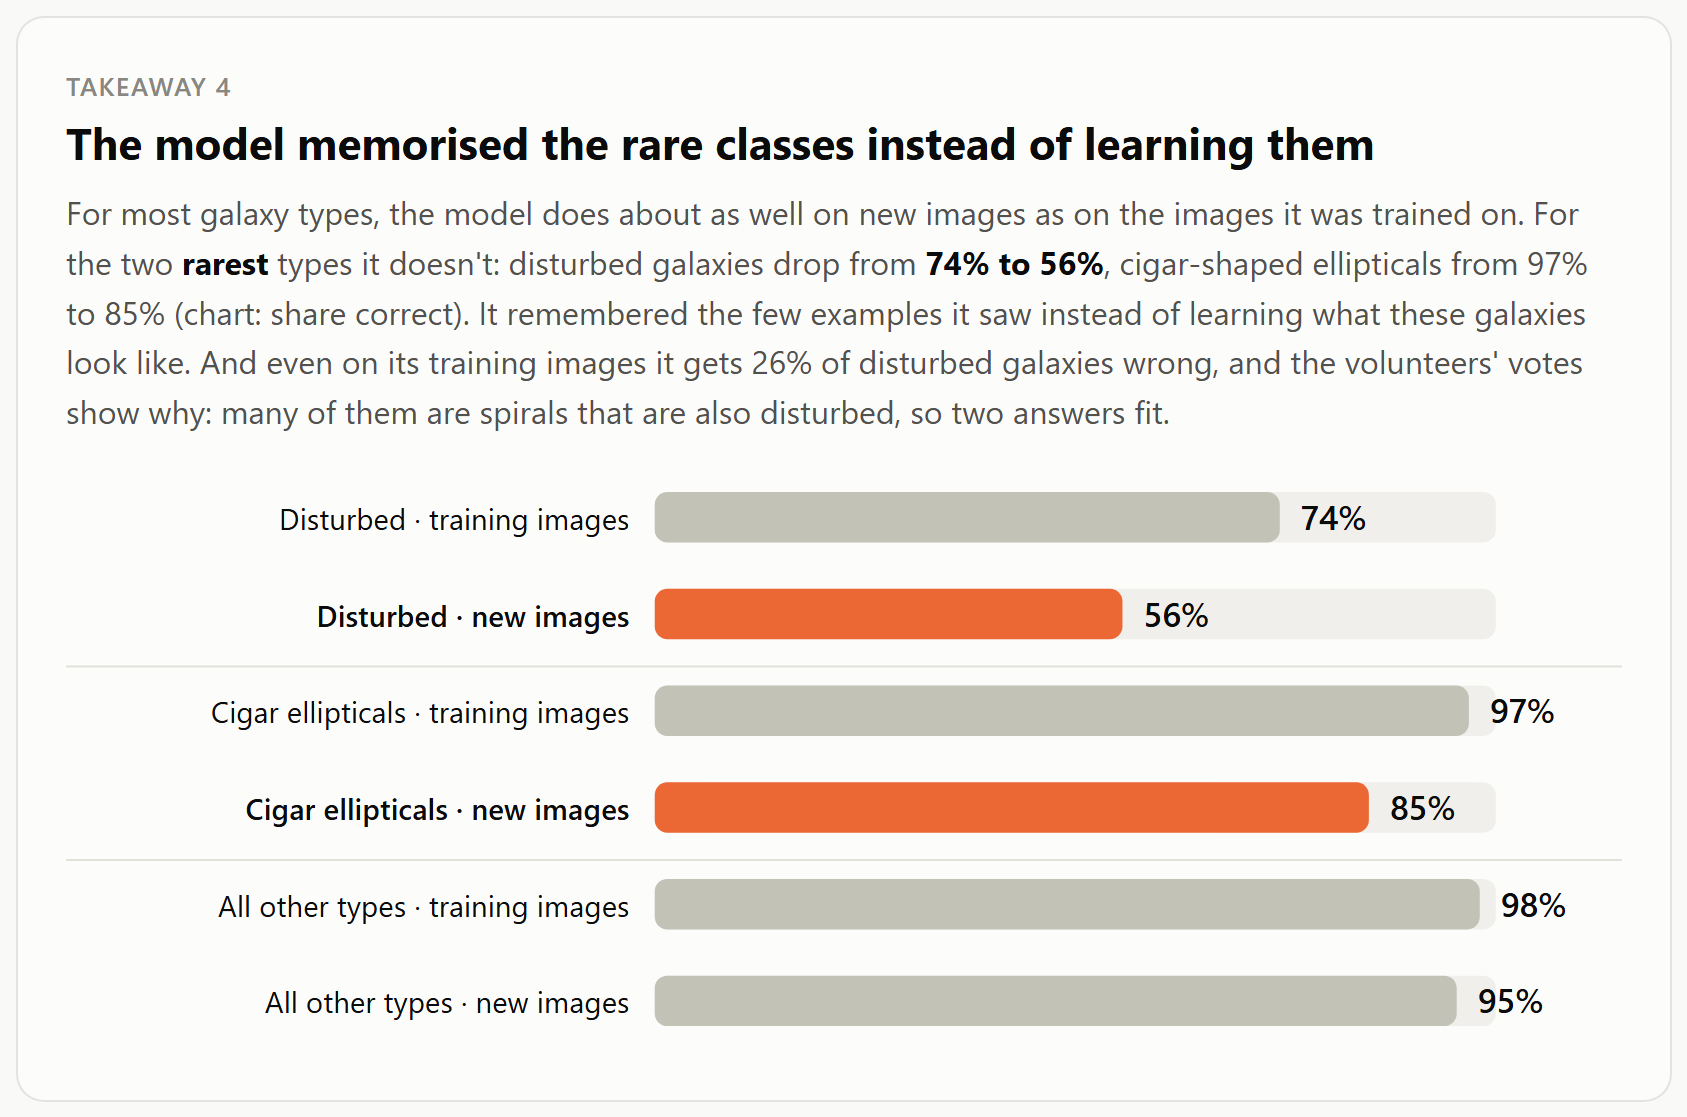
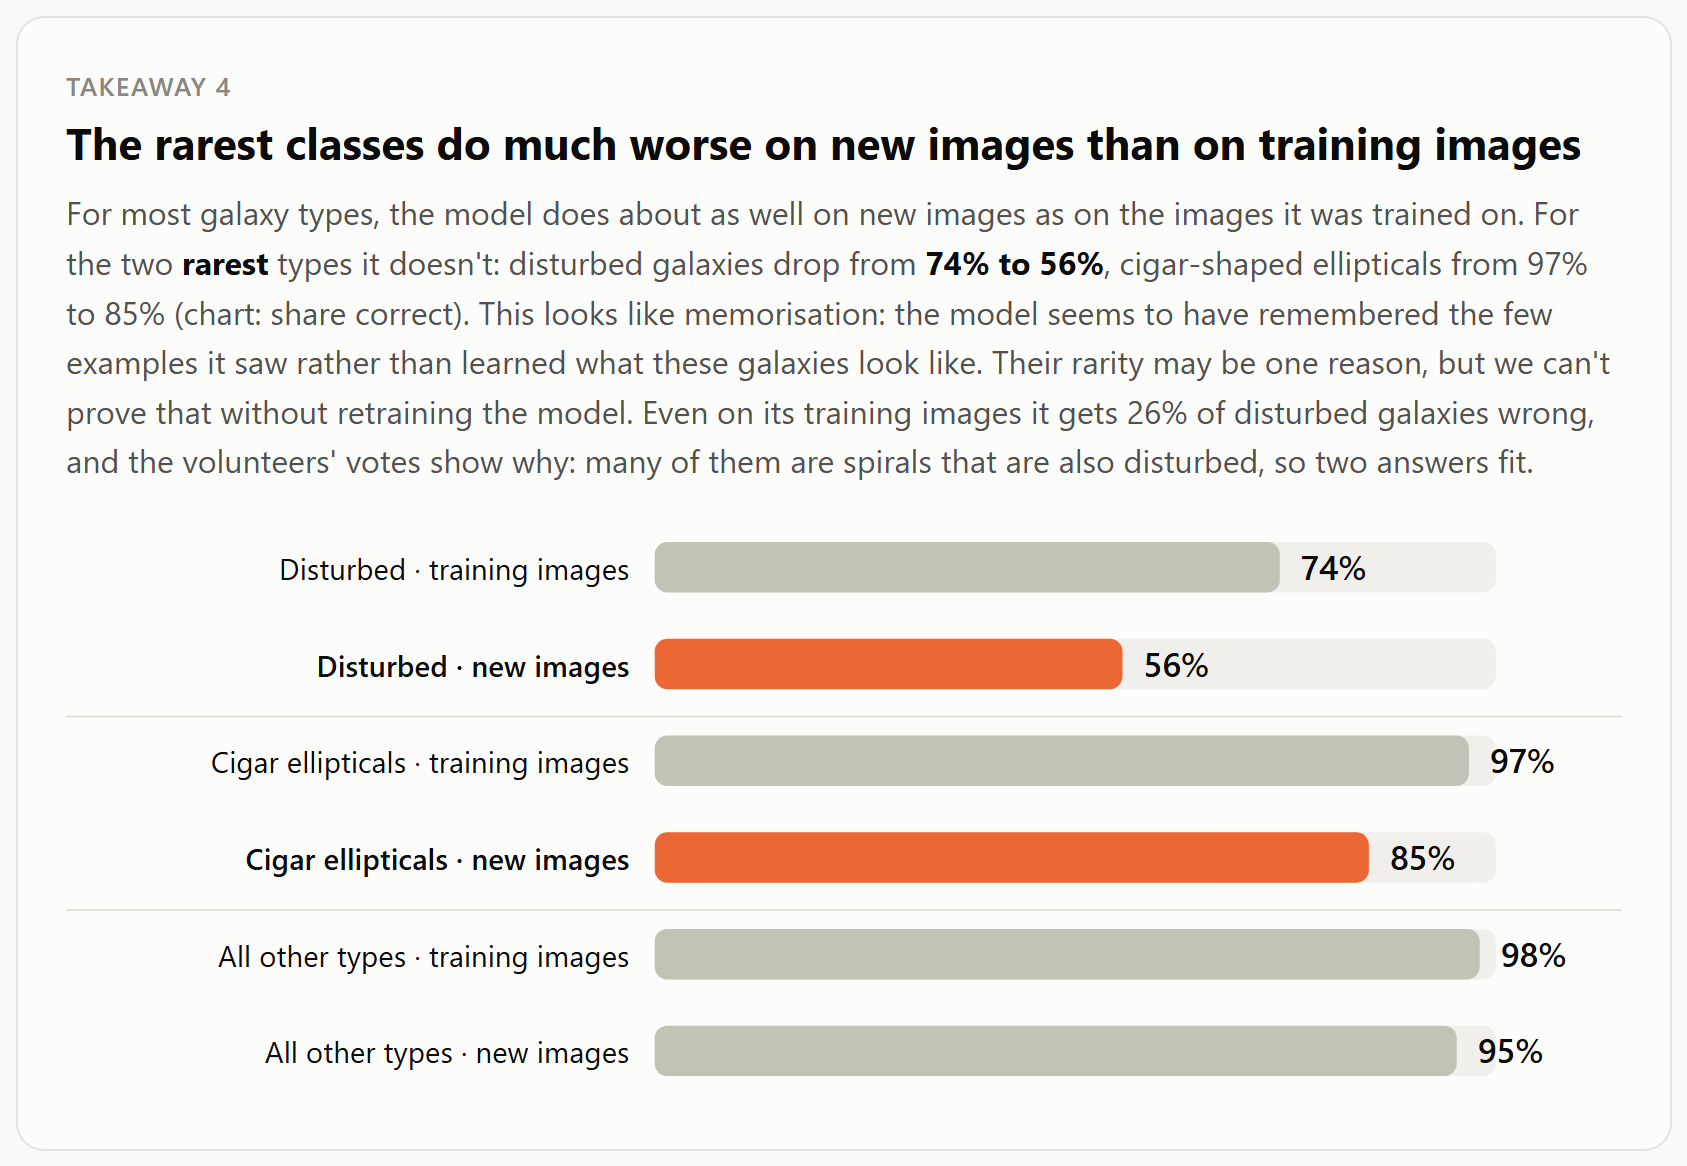
test remaining claims, correct wording

diff --git a/ai_aided/vis/findings.html b/ai_aided/vis/findings.html
@@ -108,7 +108,7 @@ svg text { fill: var(--ink-2); font-size: 14px; }
 
   <section class="card">
     <div class="num">Takeaway 4</div>
-    <h2>The model memorised the rare classes instead of learning them</h2>
+    <h2>The rarest classes do much worse on new images than on training images</h2>
     <p class="say" id="t4-say"></p>
     <div id="t4-chart"></div>
   </section>
@@ -140,7 +140,7 @@ svg text { fill: var(--ink-2); font-size: 14px; }
     <h2>What does <i>not</i> confuse the model</h2>
     <p class="say">Some things looked like they might matter, so we changed them on purpose. The answers barely moved.</p>
     <div class="nope" id="t6"></div>
-    <p class="note">Colour is the important one: in the real images, red disturbed galaxies <i>are</i> called Elliptical far more often than blue ones, so it looked like the model judges by colour. The test shows it doesn't. Red disturbed galaxies are probably just smoother in shape.</p>
+    <p class="note">Colour is the important one: in the real images, red disturbed galaxies <i>are</i> called Elliptical far more often than blue ones, so it looked like the model judges by colour. The test shows it doesn't. The volunteers do call red disturbed galaxies “smooth” more often than blue ones (37% vs 28%), so a smoother shape, not the colour itself, is the likely reason.</p>
   </section>
 
   <p class="foot">Data: Galaxy10 DECals validation images (not used for training). "Tested by editing images": we changed one thing in the images (size, blur, colour, shape, rotation, position or neighbours) and ran the model again on the same galaxies (705 and 1,115 galaxies in two tests). Numbers are calculated live from the model's predictions. For details, open explorer.html.</p>
@@ -235,7 +235,7 @@ $("lede").textContent = `We tested the galaxy classifier on ${VAL.length.toLocal
     { label: "Blurred · spirals & ellipticals", v: ch(others2, "blur") },
     { label: "Blurred · disturbed", v: ch(of(T2, 3), "blur"), hi: true },
   ], 0.5);
-  $("t3-say").innerHTML = `A galaxy is still the same galaxy when the picture is rotated or moved, and the model was even trained on rotated images. Still, these small changes <b>flip the answer for many disturbed galaxies</b>: ${pct(ch(of(T1, 3), "rot90"))} after rotating and ${pct(ch(of(T2, 3), "shift"))} after moving, far more than for spirals and ellipticals (chart: share of answers that change). For disturbed galaxies the model is unsure and close to a tipping point.`;
+  $("t3-say").innerHTML = `A galaxy is still the same galaxy when the picture is rotated or moved, and the model was even trained on rotated images. Still, these small changes <b>flip the answer for many disturbed galaxies</b>: ${pct(ch(of(T1, 3), "rot90"))} after rotating and ${pct(ch(of(T2, 3), "shift"))} after moving, far more than for spirals and ellipticals (chart: share of answers that change). For disturbed galaxies the model is unsure and close to a tipping point: the ones whose answer flips when rotated were already unsure (median confidence 70%, against 94% for those that stay the same).`;
   pairs("t3-ex", "rotate", "original", "rotated 90°");
 }
 
@@ -251,7 +251,7 @@ $("lede").textContent = `We tested the galaxy classifier on ${VAL.length.toLocal
     { label: "All other types · training images", v: acc(TR, common) },
     { label: "All other types · new images", v: acc(VAL, common) },
   ]);
-  $("t4-say").innerHTML = `For most galaxy types, the model does about as well on new images as on the images it was trained on. For the two <b>rarest</b> types it doesn't: disturbed galaxies drop from <b>${pct(acc(TR, d => d.l10 === 0))} to ${pct(acc(VAL, d => d.l10 === 0))}</b>, cigar-shaped ellipticals from ${pct(acc(TR, d => d.l10 === 4))} to ${pct(acc(VAL, d => d.l10 === 4))} (chart: share correct). It remembered the few examples it saw instead of learning what these galaxies look like. And even on its training images it gets ${pct(1 - acc(TR, d => d.l10 === 0))} of disturbed galaxies wrong, and the volunteers' votes show why: many of them are spirals that are also disturbed, so two answers fit.`;
+  $("t4-say").innerHTML = `For most galaxy types, the model does about as well on new images as on the images it was trained on. For the two <b>rarest</b> types it doesn't: disturbed galaxies drop from <b>${pct(acc(TR, d => d.l10 === 0))} to ${pct(acc(VAL, d => d.l10 === 0))}</b>, cigar-shaped ellipticals from ${pct(acc(TR, d => d.l10 === 4))} to ${pct(acc(VAL, d => d.l10 === 4))} (chart: share correct). This looks like memorisation: the model seems to have remembered the few examples it saw rather than learned what these galaxies look like. Their rarity may be one reason, but we can't prove that without retraining the model. Even on its training images it gets ${pct(1 - acc(TR, d => d.l10 === 0))} of disturbed galaxies wrong, and the volunteers' votes show why: many of them are spirals that are also disturbed, so two answers fit.`;
 }
 
 // ---------- 5: confident mistakes ----------
@@ -295,7 +295,7 @@ $("lede").textContent = `We tested the galaxy classifier on ${VAL.length.toLocal
   bars("m-pairs", top.map(([k, n], i) => ({ label: k.replace("Irregular", "Disturbed"), v: n / unsure.length, hi: k.includes("Spiral") })), 0.3);
   const wrong = pts.filter(d => !ok(d));
   $("m-say").innerHTML = `This map places every galaxy by the model's answer: galaxies close together got similar answers. Most of the map is made of <b>dense islands where the model is completely sure and almost never wrong</b>. The mistakes (orange) sit in two kinds of places: on <b>bridges between two islands</b>, where the model is torn between two classes (${nums("bridge")}), and in <b>groups hidden inside the Spiral island</b>, where the model is sure but about a quarter of the galaxies are actually disturbed (${nums("hidden")}).`;
-  $("m-note").innerHTML = `<b>What the map tells us.</b> When the model is unsure, it is almost never confused in general: in ${pct(share(unsure, d => top2(d) > 0.9))} of unsure cases, nearly all its doubt is between exactly <b>two</b> classes, and Spiral is part of most of these pairs. The bridges are genuinely in-between galaxies: on the Spiral ↔ Edge-on bridge, true spirals and true edge-on disks are equally flat (they are tilted disks), and the model's mistakes go both ways equally. In the hidden groups, the "disturbed" galaxies look like the real spirals around them in colour, size and shape, and the volunteers' votes show many of them are disturbed spirals, where both answers fit. Being in a sparse or crowded part of the map does <b>not</b> predict mistakes (${pct(MD.density.sparsest)} vs ${pct(MD.density.densest)} wrong): about half the mistakes (${pct(share(wrong, d => d.conf < 0.8))}) are unsure ones on bridges, the other half are confident ones inside islands.`;
+  $("m-note").innerHTML = `<b>What the map tells us.</b> When the model is unsure, it is almost never confused in general: in ${pct(share(unsure, d => top2(d) > 0.9))} of unsure cases, nearly all its doubt is between exactly <b>two</b> classes, and Spiral is part of most of these pairs. The bridges are genuinely in-between galaxies: on the Spiral ↔ Edge-on bridge, true spirals and true edge-on disks are equally flat, the volunteers themselves were split on “edge-on” (27%, against 0–5% elsewhere on the map), and the model's mistakes go both ways equally. These are tilted disks. In the hidden groups, the "disturbed" galaxies look like the real spirals around them in colour, size and shape; too few of them have volunteer votes to say why the model is wrong there (7 mistakes, and for 5 of them the votes back the label). We rebuilt the map from three other random starting layouts: the same bridges and the hidden group came back, and crowdedness still made no difference, although the exact number of regions changed (38–46). Being in a sparse or crowded part of the map does <b>not</b> predict mistakes (${pct(MD.density.sparsest)} vs ${pct(MD.density.densest)} wrong): about half the mistakes (${pct(share(wrong, d => d.conf < 0.8))}) are unsure ones on bridges, the other half are confident ones inside islands.`;
 }
 
 // ---------- 7: what does not matter ----------

diff --git a/ai_aided/report_phase1.md b/ai_aided/report_phase1.md
@@ -48,9 +48,9 @@ Rotating an image or moving the galaxy off-centre doesn't change what the galaxy
 | moving off-centre | **17%** | 4% |
 | blurring | **38%** | 8% |
 
-The model's decisions for disturbed galaxies sit close to a tipping point.
+The model's decisions for disturbed galaxies sit close to a tipping point: the galaxies whose answer flips when rotated were already unsure (median confidence 70%, against 94% for those whose answer stays the same).
 
-### Takeaway 4: The model memorised the rare classes instead of learning them
+### Takeaway 4: The rarest classes do much worse on new images than on training images
 
 ![Takeaway 4](figures/takeaway_4.png)
 
@@ -58,7 +58,7 @@ For most types, accuracy on new images is close to accuracy on training images (
 - disturbed galaxies drop from **74% to 56%**;
 - cigar-shaped ellipticals drop from **97% to 85%**.
 
-The model remembered the few examples it saw rather than learning what these galaxies look like. Even on its own training images it gets 26% of disturbed galaxies wrong. The volunteers' votes (see Takeaway 5) explain why: many disturbed galaxies are spirals that are also disturbed, so two answers fit.
+This looks like memorisation: the model seems to have remembered the few examples it saw rather than learned what these galaxies look like. Their rarity may be one reason, but proving that would require retraining the model, which is outside Phase I. Even on its own training images it gets 26% of disturbed galaxies wrong. The volunteers' votes (see Takeaway 5) explain why: many disturbed galaxies are spirals that are also disturbed, so two answers fit.
 
 ### Takeaway 5: The model is often very sure even when it is wrong
 
@@ -83,16 +83,16 @@ An earlier visual impression, that about 16 of the 40 most confident mistakes lo
 
 ![Takeaway 6](figures/takeaway_6.png)
 
-We clustered the map of the model's answers (HDBSCAN, 39 regions). Most of the map is **dense islands where the model is sure and never wrong** (25 regions with no mistakes at all). The mistakes sit in two kinds of places.
+We clustered the map of the model's answers (HDBSCAN, about 40 regions). Most of the map is **dense islands where the model is sure and almost never wrong**. The mistakes sit in two kinds of places.
 
 1. **Bridges between two classes,** where the model hesitates between exactly two answers.
    - When the model is unsure, in **82%** of cases almost all its doubt is split between just two classes, and Spiral is part of most of these pairs.
-   - The bridges contain genuinely in-between galaxies. On the Spiral ↔ Edge-on bridge, true spirals and true edge-on disks are equally flat (tilted disks), and the mistakes go both ways equally.
+   - The bridges contain genuinely in-between galaxies. On the Spiral ↔ Edge-on bridge, true spirals and true edge-on disks are equally flat, the volunteers themselves were split on "edge-on" (27%, against 0–5% elsewhere on the map), and the mistakes go both ways equally. These are tilted disks.
 2. **Groups hidden inside the Spiral island,** where the model is confident but about a quarter of the galaxies are labelled disturbed.
-   - These "disturbed" galaxies look like the spirals around them in colour, size and roundness. The volunteers' votes show that many are disturbed spirals, where both answers fit.
+   - These "disturbed" galaxies look like the spirals around them in colour, size and roundness. Too few have volunteer votes to say why the model is wrong here (7 mistakes; for 5 of them the votes back the label).
    - The mix splits into separate sub-groups that behave differently: the same share of disturbed galaxies, but different confidence (69%, 83% and 90%).
 
-**Density does not explain the errors.** The sparsest and the densest fifth of the map have the same error rate (9%). About half the mistakes are unsure ones on bridges; the other half are confident ones inside islands.
+**Density does not explain the errors.** The sparsest and the densest fifth of the map have about the same error rate (8–9%). About half the mistakes are unsure ones on bridges; the other half are confident ones inside islands.
 
 ### Takeaway 7: What does not confuse the model
 
@@ -108,12 +108,12 @@ Several factors looked like they might matter, so we tested them directly. None 
 | Surroundings removed around mergers | still called Merger | 91% | 90% |
 | Distance, nearest vs farthest fifth (real images) | answered correctly | 93% | 92% |
 
-Colour is the important case. In the real images, red disturbed galaxies *are* called Elliptical far more often than blue ones (33% vs 2%), so it looked as if the model judges by colour. The test shows it doesn't; red disturbed galaxies are probably just smoother in shape. This shows why we tested patterns rather than only observing them.
+Colour is the important case. In the real images, red disturbed galaxies *are* called Elliptical far more often than blue ones (33% vs 2%), so it looked as if the model judges by colour. The test shows it doesn't. The volunteers do call red disturbed galaxies "smooth" more often than blue ones (37% vs 28%), so a smoother shape, not the colour itself, is the likely reason. This shows why we tested patterns rather than only observing them.
 
 ## 3. Confidence and limitations
 
-- **High confidence:** takeaways 1–4 and 7. Each rests on hundreds of images, holds on both the training and the validation data, and in most cases the cause was tested by editing images.
-- **Medium confidence:** takeaway 6. The map layout and the regions depend on t-SNE and the clustering settings. The error rates inside the regions are measured directly.
+- **High confidence:** the measured effects in takeaways 1–4 and 7. Two explanations are interpretations rather than tested results: that rarity causes the weak rare classes, and that the gap in takeaway 4 is memorisation. Each rests on hundreds of images, holds on both the training and the validation data, and in most cases the cause was tested by editing images.
+- **Medium confidence:** takeaway 6. We rebuilt the map from three other random starting layouts: the same bridges, the hidden group in the Spiral region and the density result came back each time, but the exact number of regions changed (38–46), so we report the structure, not the counts.
 - **Checked with volunteer votes:** wrong labels explain only about 10% of the mistakes. This rests on the 45% of galaxies with public votes and on an approximate mapping from the Galaxy Zoo questions to our five classes (see `src/volunteer_votes.py`).
 - **Measurements are rough proxies.** Size, roundness and colour are measured with simple image statistics, and atmospheric blur makes small galaxies look rounder.
 - **Edited images can contain artefacts.** We checked every edit visually before running the tests, and fixed two artificial-looking edits.

diff --git a/ai-interactions/ai-use-log.md b/ai-interactions/ai-use-log.md
@@ -256,6 +256,24 @@ Then it started a second image-editing test (`ai_aided/src/perturbation_test2.py
 
 ---
 
+## 15. Testing the remaining claims
+
+**Prompt:** "is there any more untested claim?"
+
+**What Claude did:** It went through every claim in the report and the findings page, and tested the ones that could be tested with data we already had:
+- **"Disturbed galaxies are close to a tipping point"** is supported. The ones whose answer flips when rotated were already unsure (median confidence 70% vs 94%).
+- **"The Spiral ↔ Edge-on bridge contains tilted disks"** is supported. The volunteers were split on "edge-on" there too (27%, against 0–5% elsewhere).
+- **"Red disturbed galaxies are just smoother"** is partly supported. The volunteers call them "smooth" more often (37% vs 28%), but our roundness measure is the same.
+- **"The groups hidden among spirals are disturbed spirals"** is not supported. Claude had carried the overall vote result over to these regions without checking them. Only 7 mistakes there have votes, and for 5 of them the votes back the label.
+- **The map** was rebuilt from three other random starting layouts. The same bridges, the hidden group and the density result came back each time, but the number of regions changed (38–46), so "25 regions with no mistakes" was not a robust number.
+- **Two claims can't be tested in Phase I and are now worded as interpretations:** that rarity causes the weak rare classes, and that the gap is "memorisation". Takeaway 4 was renamed to "The rarest classes do much worse on new images than on training images".
+
+Claude corrected the findings page, report, reflection, slides and figures.
+
+**My decision:** Accepted. Every claim is now either measured, tested, or clearly marked as an interpretation.
+
+---
+
 ## Which AI suggestions we accepted, changed or rejected
 
 | AI suggestion | Decision | Why |
@@ -272,6 +290,8 @@ Then it started a second image-editing test (`ai_aided/src/perturbation_test2.py
 | "Many confident mistakes are wrong labels" (Claude looking at the images) | Rejected after checking | The volunteers' own votes back the model in only 10% of mistakes. Most were disturbed spirals, where both answers fit. |
 | Cluster analysis of the map | Accepted | It shows where the mistakes are and why. |
 | Judging the 40 most confident mistakes by hand (label-check page) | Not used | As a non-expert my judgement would have been weak evidence. We used the volunteers' own votes instead. |
+| "The groups hidden among spirals on the map are disturbed spirals" | Rejected after checking | Claude generalised the overall vote result to these regions; the few votes there mostly back the label. |
+| "25 regions with no mistakes" | Refined | The count changed with the map layout (16–25); we now report the structure, not the count. |
 
 ## How the AI changed the direction of our analysis
 
@@ -290,6 +310,7 @@ The section numbers point to the log entries above.
 - Generated code can contain small bugs even when it looks fine (§2).
 - Numbers can look reasonable but come from a wrong calculation. The first roundness values made edge-on disks almost as round as ellipticals (§4).
 - The AI's first default settings can give useless results. The first clustering found only 2 clusters (§11).
+- Exact counts can depend on random choices. The number of map regions with no mistakes changed from 16 to 25 with the map's random starting layout (§15).
 
 **Following the task**
 - The AI fills gaps in the task with "standard practice", even when that breaks the task rules. It used the model's internal features, which belongs to Phase II (§3).
@@ -299,6 +320,7 @@ The section numbers point to the log entries above.
 - A pattern in real data can look like a cause when it isn't. Red disturbed galaxies were called Elliptical more often, but changing only the colour changed nothing (§7).
 - Results from different kinds of evidence can get mixed up. A result from the real images was shown in the "tested by editing images" card (§10).
 - Page text can contain hard-coded values that no longer match the data, such as region numbers written by hand (§11).
+- A result can be carried over to a subgroup where it was never checked. "The hidden groups are disturbed spirals" came from the overall vote result, and the few votes in those regions mostly back the label (§15).
 - The first version of the output is often correct but too detailed and full of jargon for the audience (§6, §12).
 
 **Experiments and images**

diff --git a/ai_reflection_midpoint.md b/ai_reflection_midpoint.md
@@ -21,7 +21,7 @@ Tool: Claude Code. Full record: [ai-interactions/ai-use-log.md](ai-interactions/
 
 ## Did AI change the breadth or depth of our analysis?
 
-Both. **Breadth:** we tested many more hypotheses than we could have by hand: six image properties, ten kinds of image edits, a cluster analysis and a comparison with the volunteers' votes. **Depth:** the AI suggested testing patterns by editing the images. This let us go past "we see a pattern" to "this is the cause". For example, it showed that colour is *not* the reason for a mistake, even though the data suggested it was.
+Both. **Breadth:** we tested many more hypotheses than we could have by hand: six image properties, ten kinds of image edits, a cluster analysis and a comparison with the volunteers' votes. **Depth:** the AI suggested testing patterns by editing the images. This let us go past "we see a pattern" to "this is the cause". For example, it showed that colour is not the reason for a mistake, even though the data suggested it was.
 
 ## Did it make us faster, or did checking it cost extra work?
 
@@ -35,8 +35,8 @@ Checking is quicker than building, but it is real work. It only works if you kno
 
 ## How confident are we in our conclusions, and why?
 
-- **High confidence:** the disturbed-galaxy blind spot, loss of detail causing "Elliptical" mistakes, the fragility of disturbed predictions, and the memorisation of rare classes. These are based on hundreds of images, hold on both the training and validation data, and the causes were tested by editing images.
-- **Medium confidence:** the map regions. They depend on the t-SNE layout and clustering settings, although the error patterns inside them are measured directly.
+- **High confidence:** the disturbed-galaxy blind spot, loss of detail causing "Elliptical" mistakes, the fragility of disturbed predictions, and the much weaker results for the rare classes on new images. These are based on hundreds of images, hold on both the training and validation data, and the causes were tested by editing images where possible. That rarity causes the weak rare classes, and that the gap is memorisation, are interpretations we could not test in Phase I.
+- **Medium confidence:** the map regions. The same bridges and hidden group came back when we rebuilt the map from three other random starts, but the exact number of regions changed.
 - **Corrected by data:** the AI's visual impression suggested that many confident mistakes were wrong labels. The volunteers' own votes showed this explains only about 1 in 10 mistakes; most "disturbed" galaxies called Spiral are disturbed spirals, where both answers fit. A good example of why an AI's visual judgement needs checking against real data.
 
 ## Strengths and limitations of AI assistance
